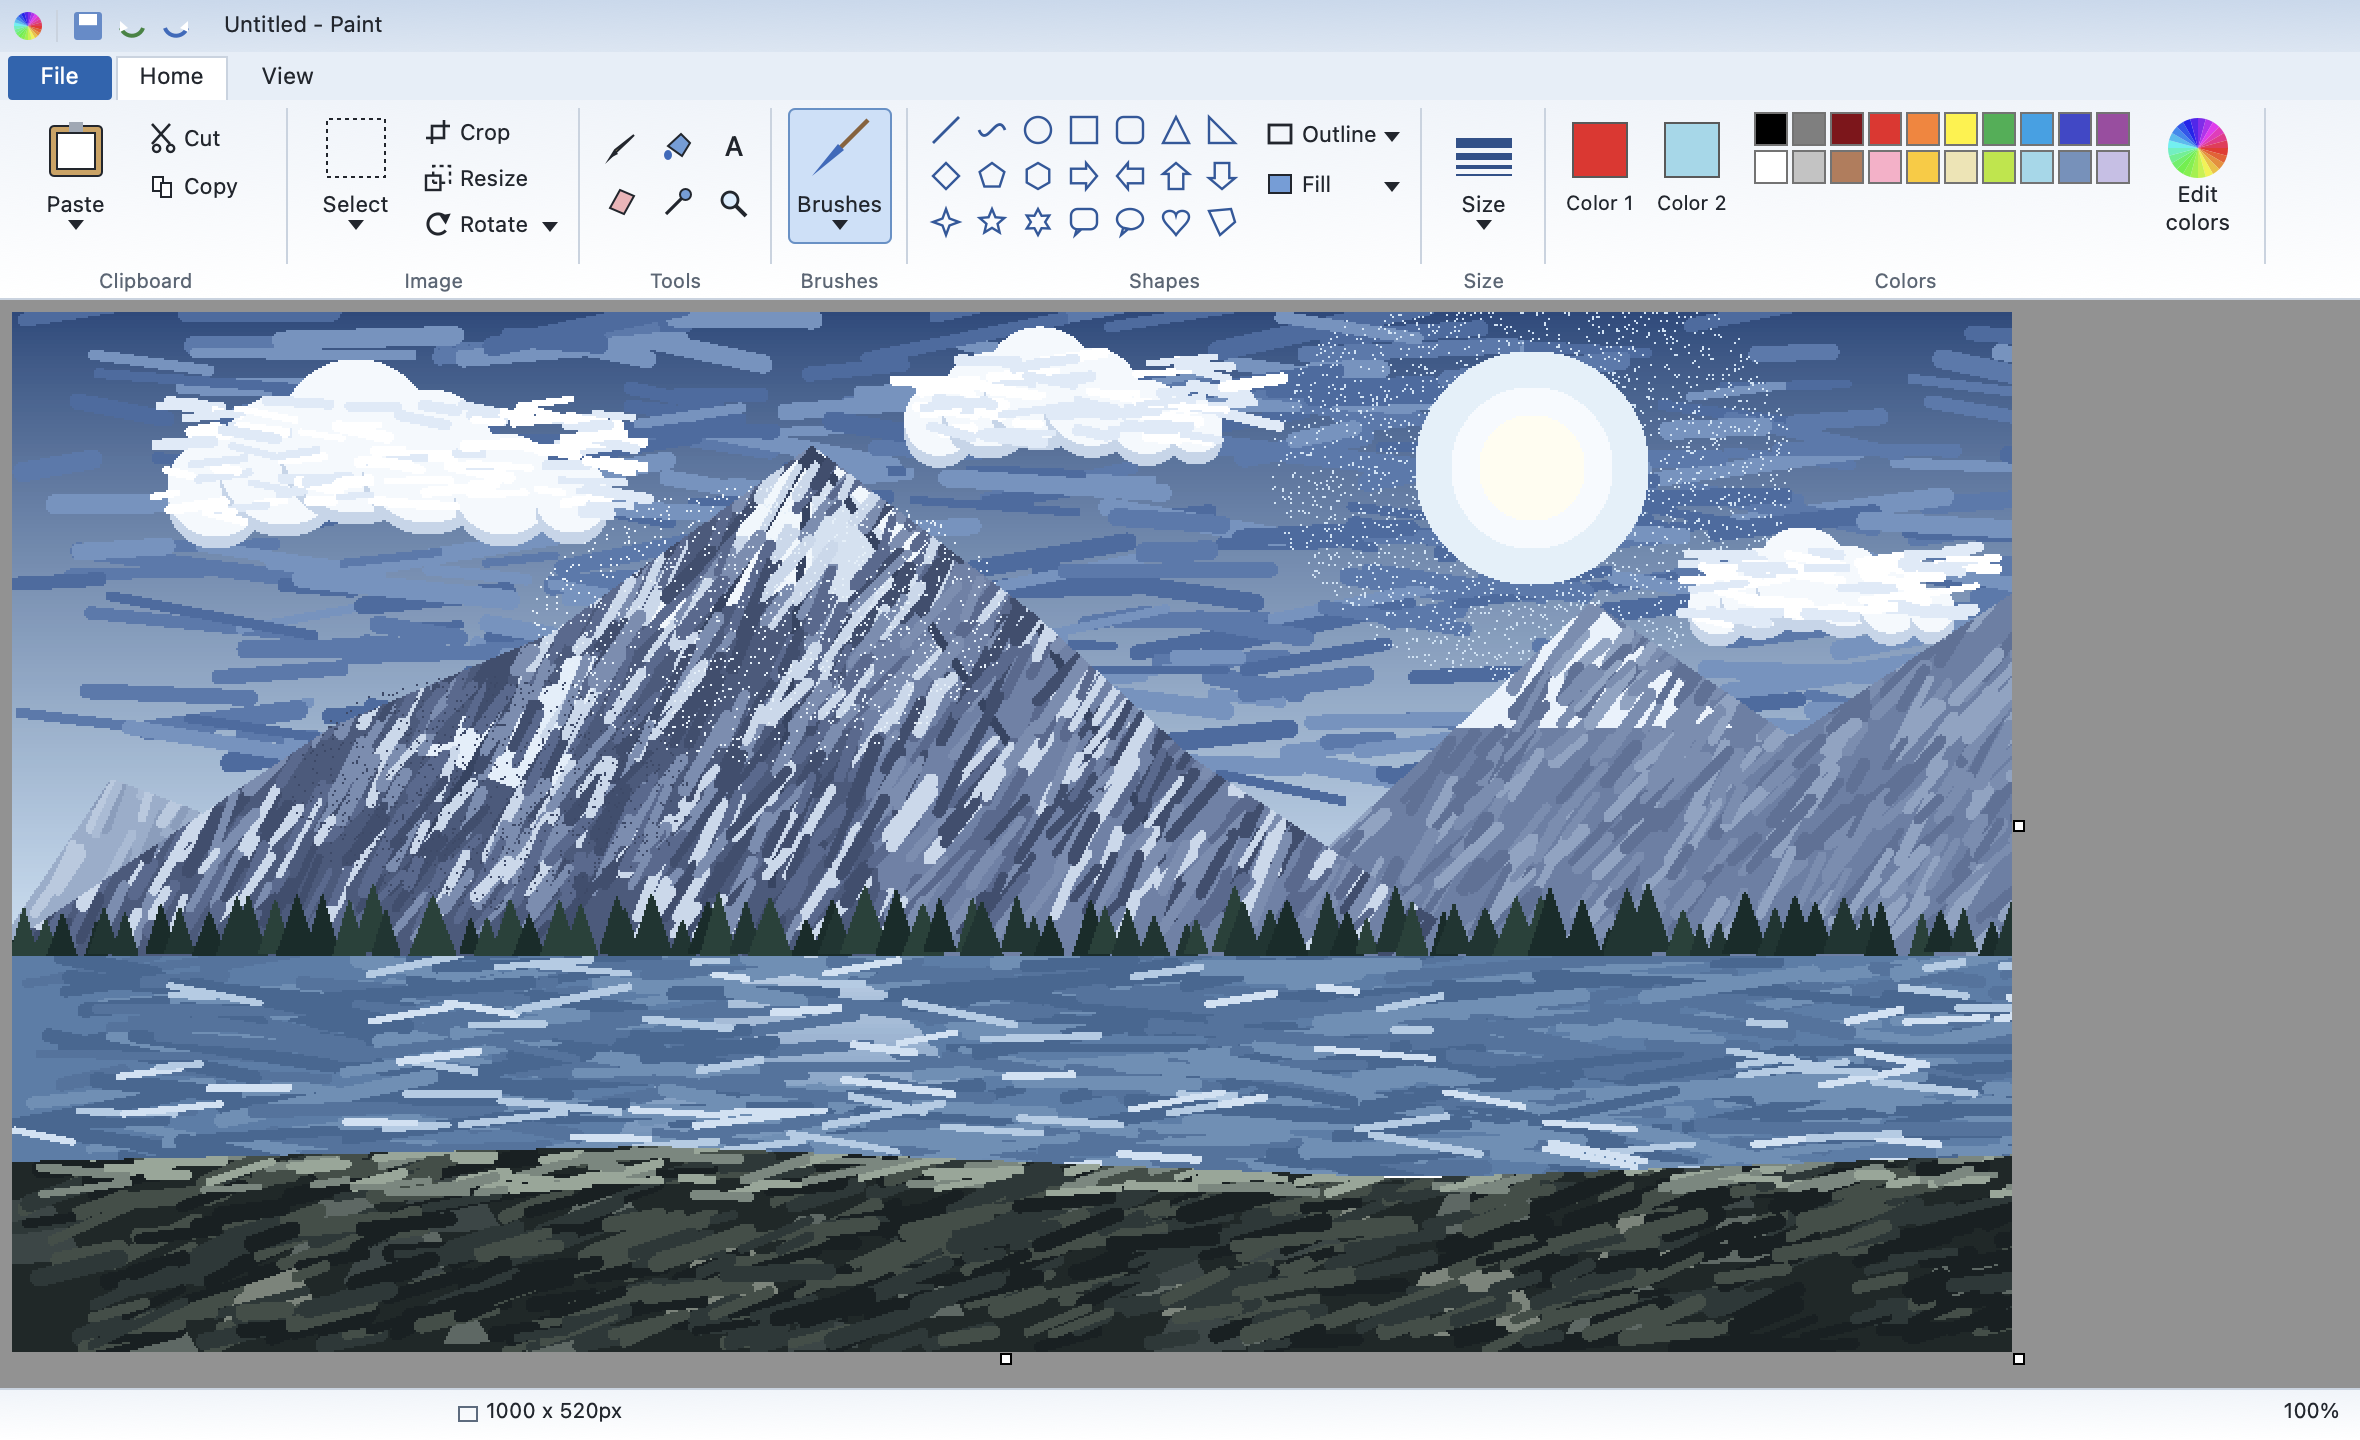
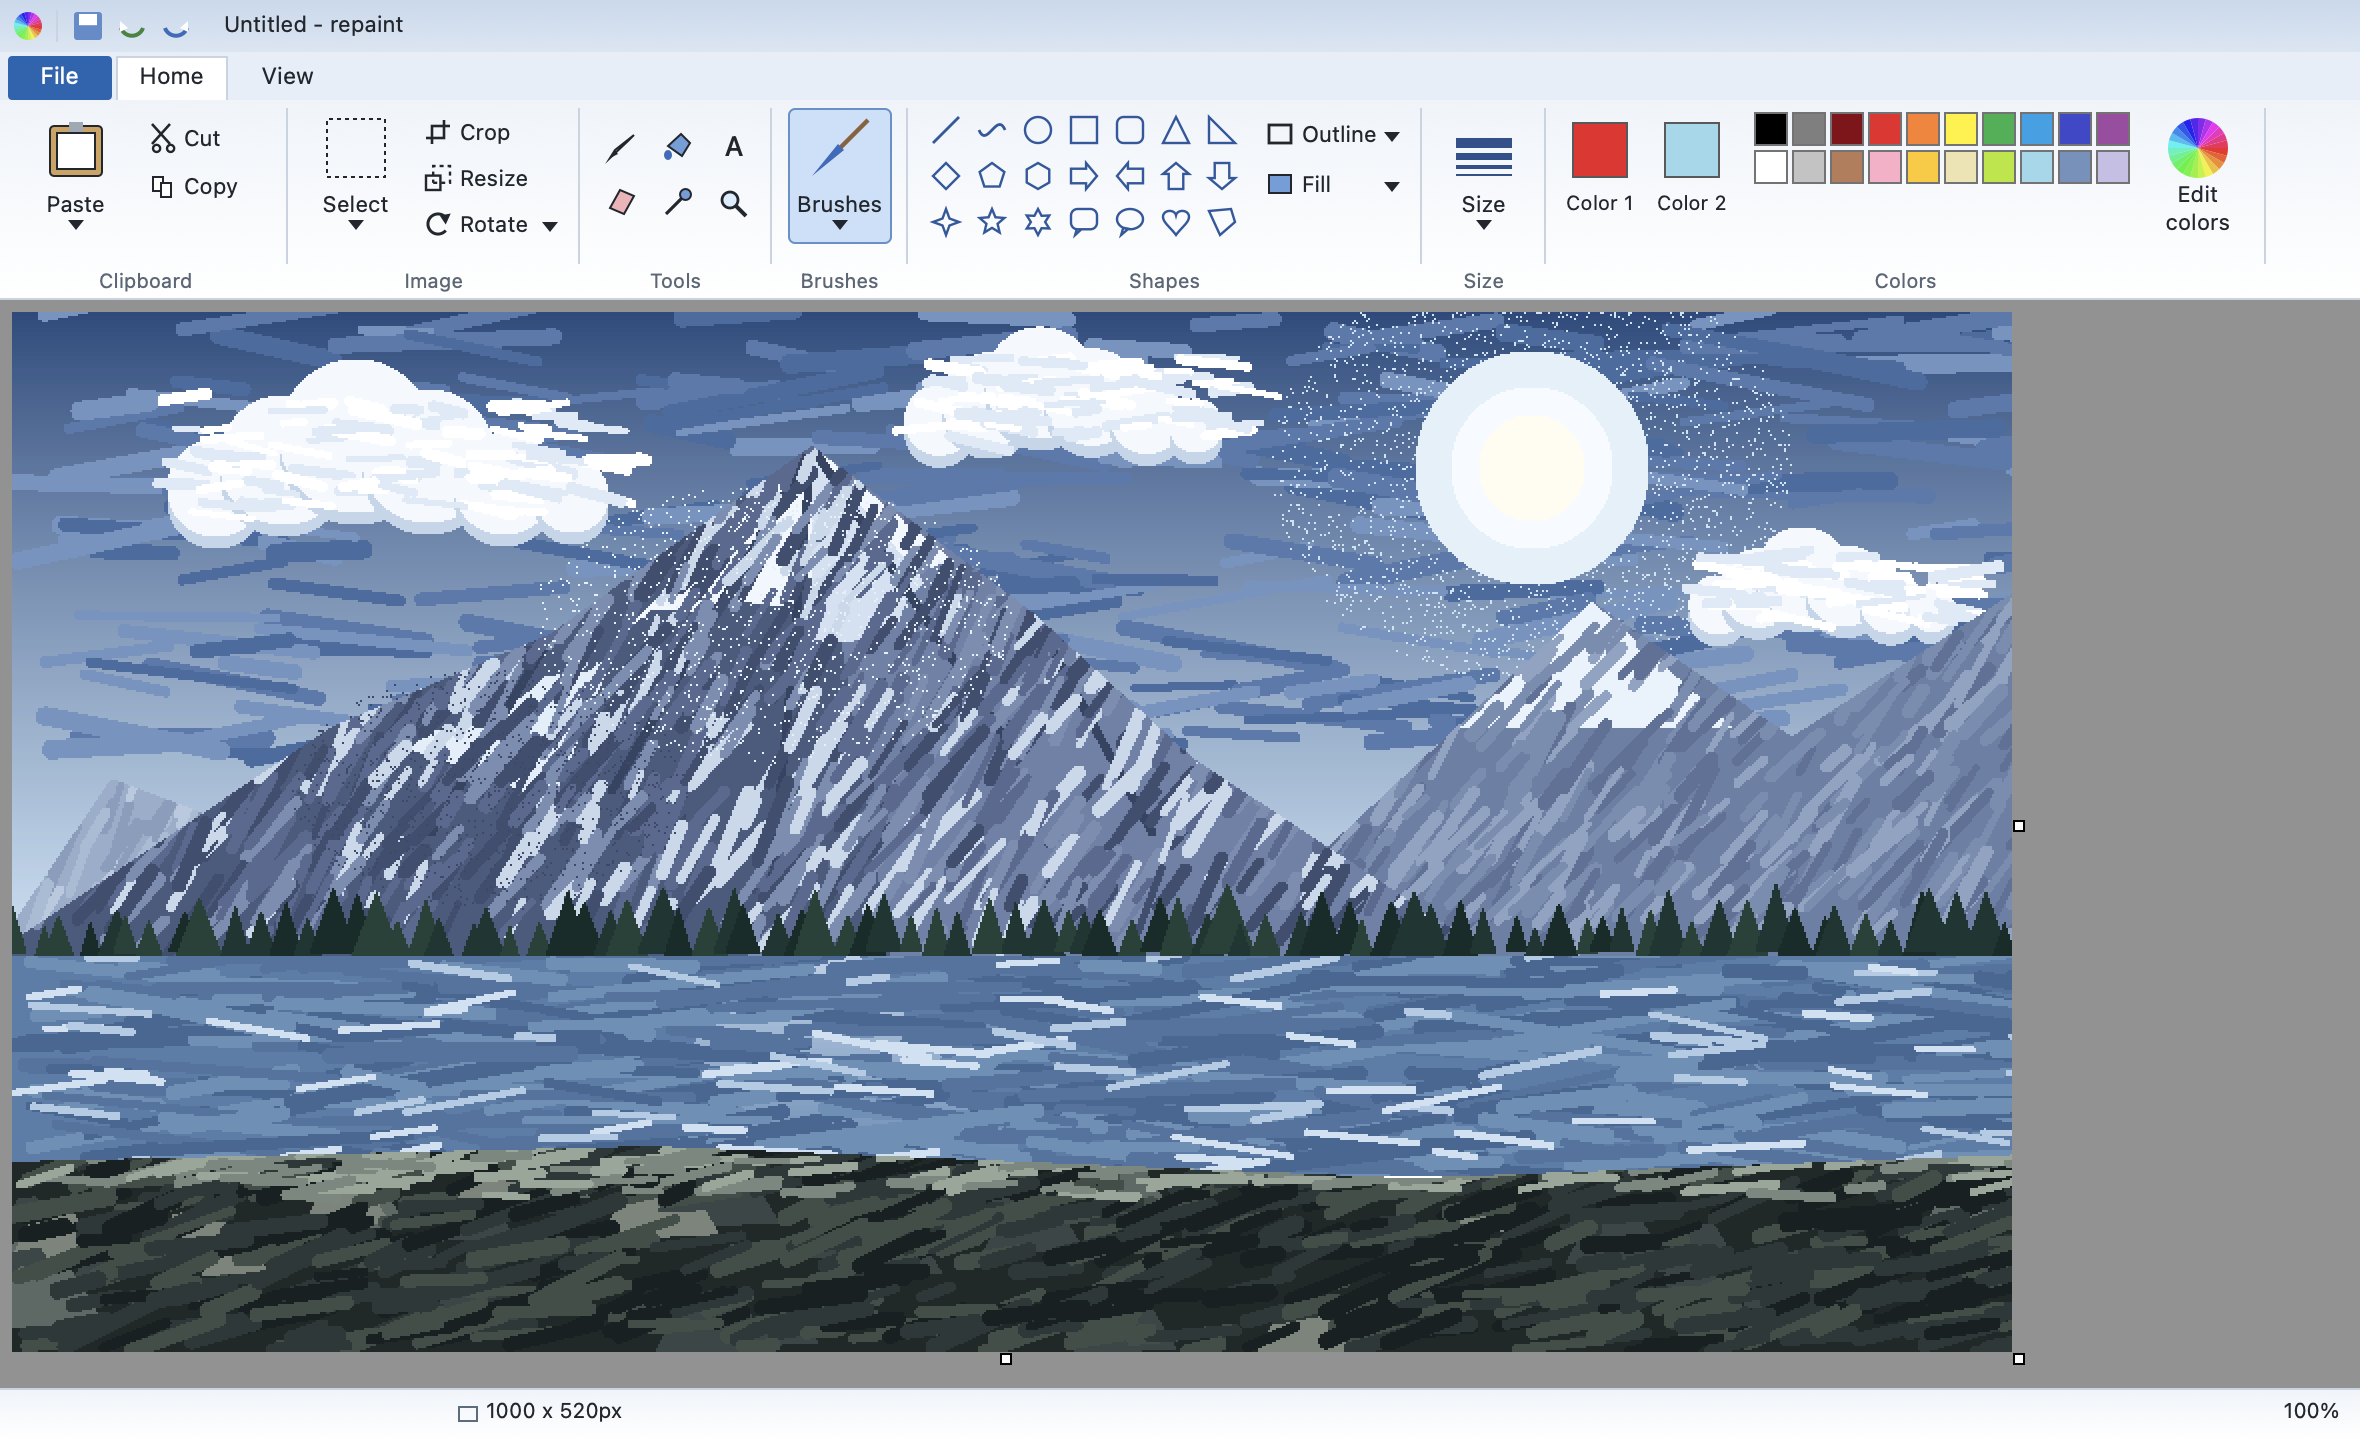
Rename the app to repaint
The bundle, executable, window title, menu bar and About box all said
Paint while the project was called repaint. They match now.

Bundle identifier moves to com.sebastianmolano.repaint, so macOS treats
this as a new app. build.sh --install clears out the older ClassicPaint
and Paint bundles rather than leaving duplicates behind.

Screenshots re-rendered so the title bar reads repaint.

Changed region(s): [[0.0, 0.2188, 0.8661, 0.9375], [0.1237, 0.0, 0.1547, 0.0312]]

diff --git a/Sources/AppDelegate.swift b/Sources/AppDelegate.swift
@@ -31,10 +31,10 @@ final class AppDelegate: NSObject, NSApplicationDelegate {
         // Application menu
         let appItem = NSMenuItem()
         let appMenu = NSMenu()
-        appMenu.addItem(withTitle: "About Paint",
+        appMenu.addItem(withTitle: "About repaint",
                         action: #selector(showAbout), keyEquivalent: "").target = self
         appMenu.addItem(.separator())
-        appMenu.addItem(withTitle: "Hide Paint",
+        appMenu.addItem(withTitle: "Hide repaint",
                         action: #selector(NSApplication.hide(_:)), keyEquivalent: "h")
         let hideOthers = appMenu.addItem(withTitle: "Hide Others",
                                          action: #selector(NSApplication.hideOtherApplications(_:)),
@@ -43,7 +43,7 @@ final class AppDelegate: NSObject, NSApplicationDelegate {
         appMenu.addItem(withTitle: "Show All",
                         action: #selector(NSApplication.unhideAllApplications(_:)), keyEquivalent: "")
         appMenu.addItem(.separator())
-        appMenu.addItem(withTitle: "Quit Paint",
+        appMenu.addItem(withTitle: "Quit repaint",
                         action: #selector(NSApplication.terminate(_:)), keyEquivalent: "q")
         appItem.submenu = appMenu
         main.addItem(appItem)
@@ -219,7 +219,7 @@ final class AppDelegate: NSObject, NSApplicationDelegate {
         // Help
         let helpItem = NSMenuItem()
         let helpMenu = NSMenu(title: "Help")
-        helpMenu.addItem(withTitle: "Paint Help",
+        helpMenu.addItem(withTitle: "repaint Help",
                          action: #selector(showHelp), keyEquivalent: "?").target = self
         helpItem.submenu = helpMenu
         main.addItem(helpItem)
@@ -237,7 +237,7 @@ final class AppDelegate: NSObject, NSApplicationDelegate {
 
     @objc private func showAbout() {
         let a = NSAlert()
-        a.messageText = "Paint"
+        a.messageText = "repaint"
         a.informativeText = """
         A rebuild of the ribbon-era Windows Paint for macOS.
 
@@ -250,7 +250,7 @@ final class AppDelegate: NSObject, NSApplicationDelegate {
 
     @objc private func showHelp() {
         let a = NSAlert()
-        a.messageText = "Paint — Quick Help"
+        a.messageText = "repaint — Quick Help"
         a.informativeText = """
         Left-click draws with the foreground colour, right-click with the \
         background colour. That applies to the pencil, brush, shapes and the fill bucket.

diff --git a/Sources/MainWindow.swift b/Sources/MainWindow.swift
@@ -15,7 +15,7 @@ final class PaintWindowController: NSWindowController, NSWindowDelegate, NSMenuI
         let win = NSWindow(contentRect: NSRect(x: 0, y: 0, width: 1180, height: 760),
                            styleMask: [.titled, .closable, .miniaturizable, .resizable],
                            backing: .buffered, defer: false)
-        win.title = "Untitled - Paint"
+        win.title = "Untitled - repaint"
         win.minSize = NSSize(width: 900, height: 520)
         self.init(window: win)
         win.delegate = self
@@ -351,7 +351,7 @@ final class PaintWindowController: NSWindowController, NSWindowDelegate, NSMenuI
 
     private func updateTitle() {
         let name = state.fileURL?.deletingPathExtension().lastPathComponent ?? "Untitled"
-        window?.title = "\(name) - Paint"
+        window?.title = "\(name) - repaint"
         window?.isDocumentEdited = state.isDirty
         ribbon.needsDisplay = true
     }
@@ -387,7 +387,7 @@ final class PaintWindowController: NSWindowController, NSWindowDelegate, NSMenuI
 
     func loadImage(from url: URL) {
         guard let img = NSImage(contentsOf: url) else {
-            alert("Paint cannot read this file.", info: url.lastPathComponent)
+            alert("repaint cannot read this file.", info: url.lastPathComponent)
             return
         }
         var rect = CGRect(origin: .zero, size: img.size)

diff --git a/Sources/Ribbon.swift b/Sources/Ribbon.swift
@@ -112,7 +112,7 @@ final class RibbonView: NSView {
             x += 22
         }
 
-        let title = "\(state.fileURL?.deletingPathExtension().lastPathComponent ?? "Untitled") - Paint"
+        let title = "\(state.fileURL?.deletingPathExtension().lastPathComponent ?? "Untitled") - repaint"
         Chrome.label(title, in: NSRect(x: x + 12, y: 5, width: bounds.width - x - 24, height: 16),
                      size: 11, color: Chrome.ink, align: .left)
     }

diff --git a/README.md b/README.md
@@ -23,7 +23,7 @@ cd repaint
 ```
 
 That compiles the sources, runs the tests, draws the icon, and copies
-`Paint.app` into `/Applications`. Needs the Xcode Command Line Tools; it does
+`repaint.app` into `/Applications`. Needs the Xcode Command Line Tools; it does
 not need Xcode itself.
 
 `./build.sh` on its own just builds into the project folder. Set `RUN_TESTS=0`
